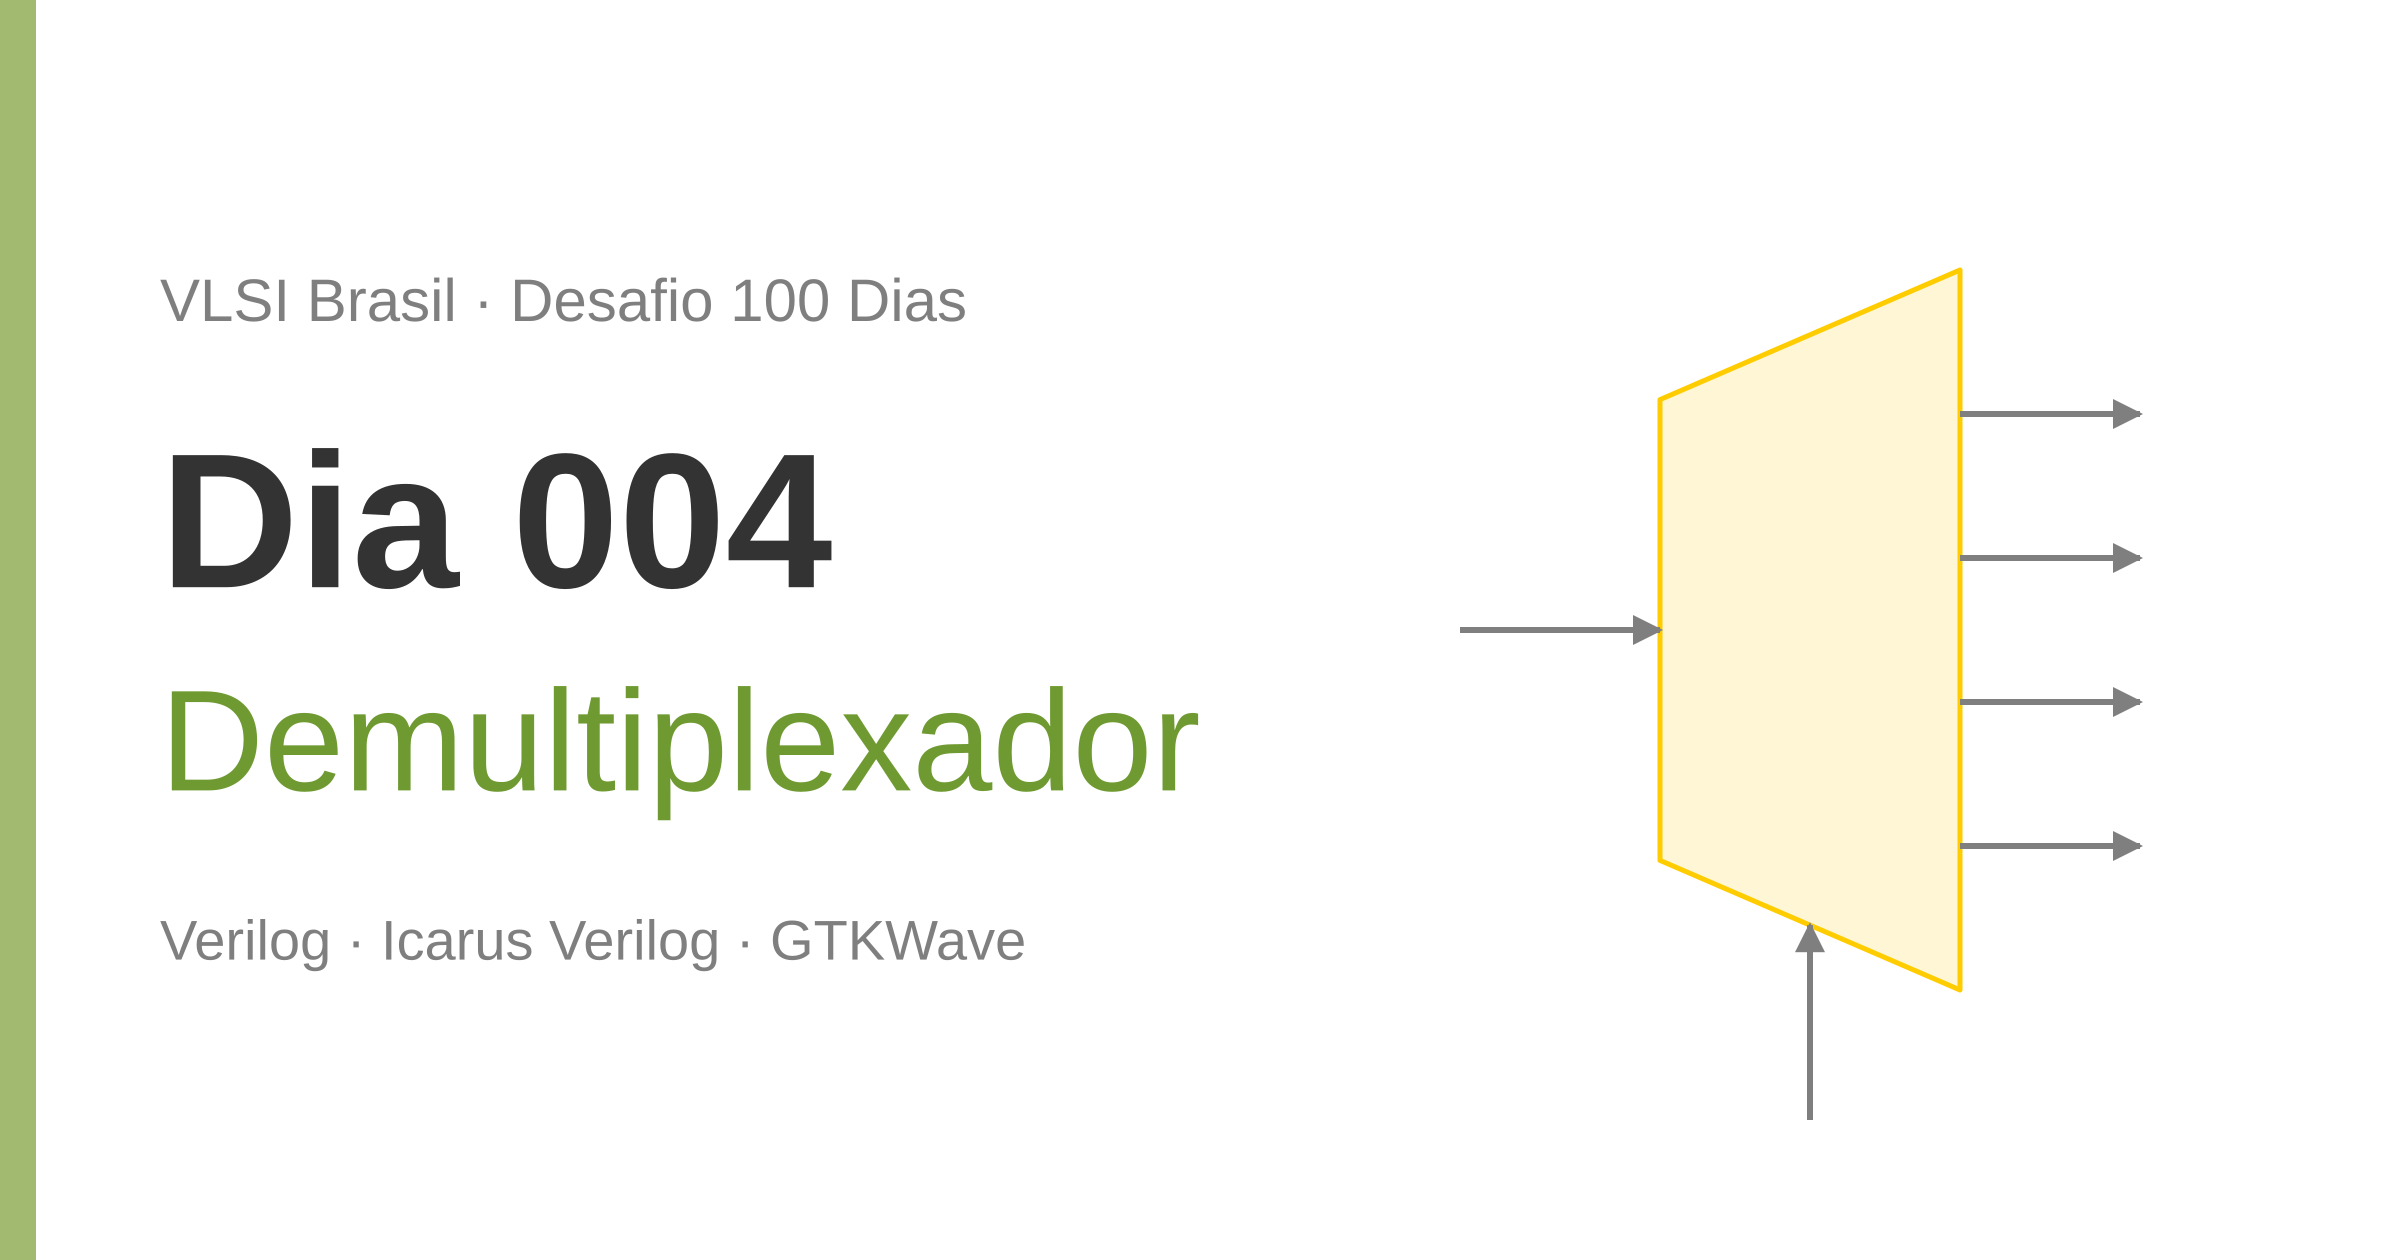
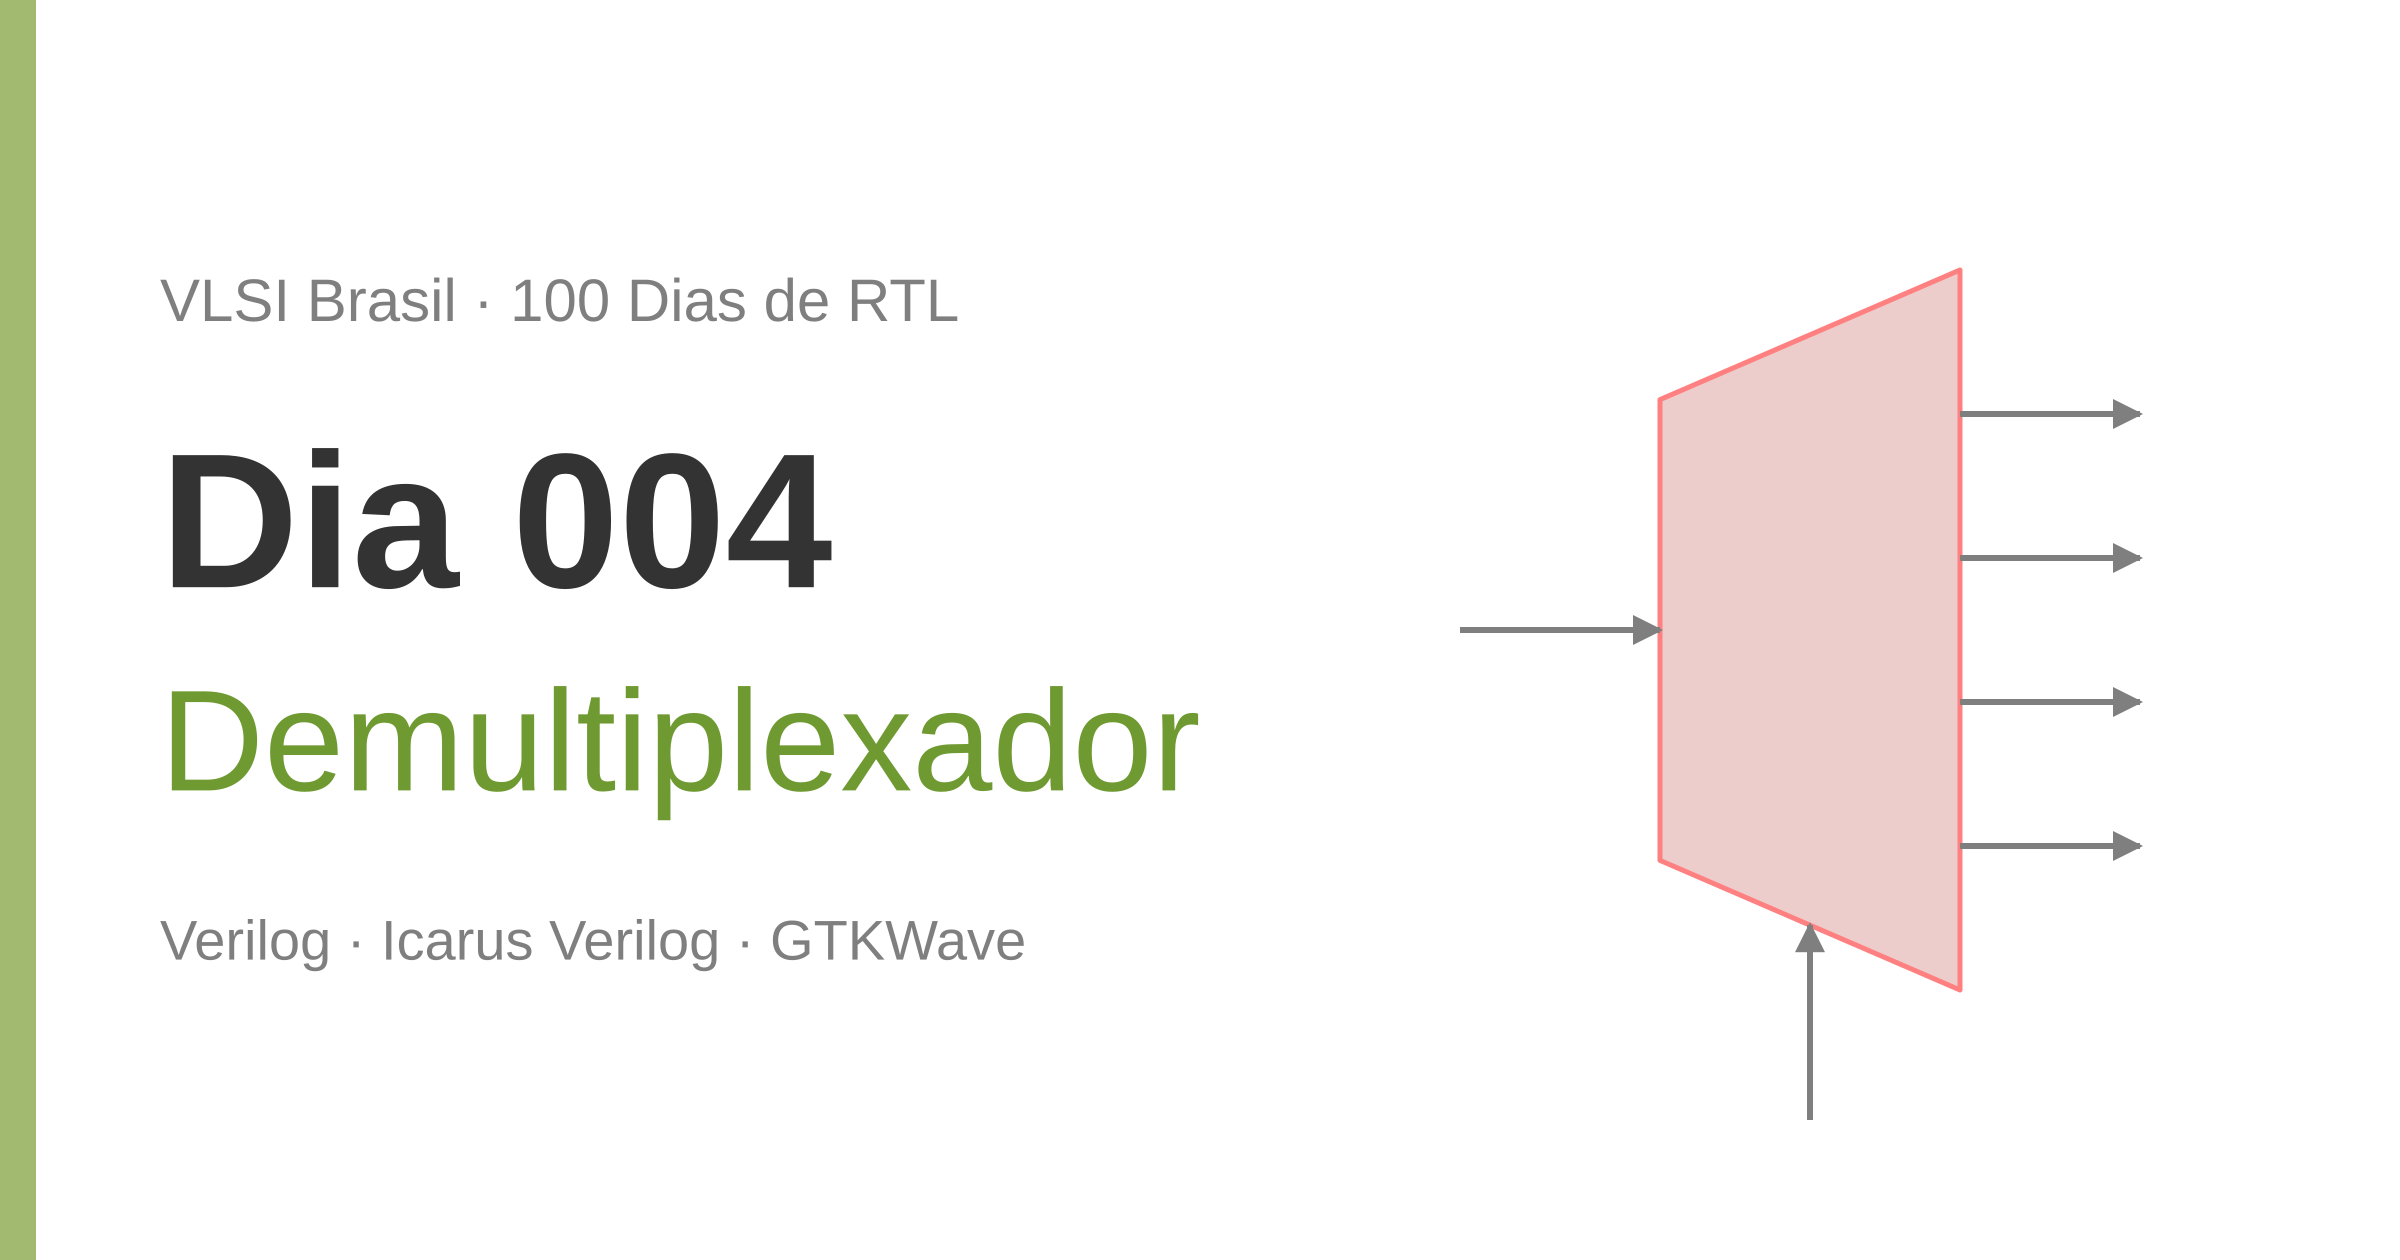
Fixing iamge colors and minor mispells

Changed region(s): [[0.6875, 0.2167, 0.8438, 0.7738], [0.2188, 0.2167, 0.4062, 0.2786]]

diff --git a/src/styles/prose.css b/src/styles/prose.css
@@ -75,6 +75,13 @@
   margin-inline: auto;
 }
 
+/* sem ligaduras no código: em Verilog "!==", "<=" e "->" devem aparecer como digitados */
+.prose code,
+.prose pre {
+  font-variant-ligatures: none;
+  font-feature-settings: 'liga' 0, 'calt' 0;
+}
+
 /* código inline */
 .prose :not(pre) > code {
   font-family: var(--font-mono);

diff --git a/src/content/posts/2026-11-02-dia-006-somador-completo.md b/src/content/posts/2026-11-02-dia-006-somador-completo.md
@@ -1,6 +1,6 @@
 ---
 title: "Dia 006 - Somador Completo"
-description: "Dia 006 do Desafio 100 Dias de RTL: o somador completo (full adder) montado com dois meios somadores, introduzindo projeto hierárquico em Verilog, com testbench e simulação no Icarus Verilog e GTKWave."
+description: "Dia 006 do 100 Dias de RTL: o somador completo (full adder) montado com dois meios somadores, introduzindo projeto hierárquico em Verilog, com testbench e simulação no Icarus Verilog e GTKWave."
 date: 2026-11-02
 author: rafael
 categories: ["100 Dias de RTL", "Verilog"]
@@ -82,7 +82,7 @@ O somador completo é descrito de forma **estrutural**: em vez de escrever as eq
 
 ```verilog
 // ============================================================================
-// VLSI Brasil - Desafio 100 Dias de RTL
+// VLSI Brasil - 100 Dias de RTL
 // Dia 006 - Somador Completo (Full Adder)
 // ----------------------------------------------------------------------------
 // Descrição : Soma três bits (in_a, in_b e o vai-um de entrada cin), gerando
@@ -143,7 +143,7 @@ O arquivo `meio_somador.v` é o mesmo do Dia 005, copiado para a pasta `rtl/` de
 
 ```verilog
 // ============================================================================
-// VLSI Brasil - Desafio 100 Dias de RTL
+// VLSI Brasil - 100 Dias de RTL
 // Dia 006 - Testbench do Somador Completo
 // ============================================================================
 

diff --git a/src/content/posts/2026-11-01-dia-005-meio-somador.md b/src/content/posts/2026-11-01-dia-005-meio-somador.md
@@ -1,6 +1,6 @@
 ---
 title: "Dia 005 - Meio Somador"
-description: "Dia 005 do Desafio 100 Dias de RTL: o meio somador (half adder), da soma binária ao circuito com XOR e AND, com mapas de Karnaugh, código Verilog, testbench e simulação no Icarus Verilog e GTKWave."
+description: "Dia 005 do 100 Dias de RTL: o meio somador (half adder), da soma binária ao circuito com XOR e AND, com mapas de Karnaugh, código Verilog, testbench e simulação no Icarus Verilog e GTKWave."
 date: 2026-11-01
 author: rafael
 categories: ["100 Dias de RTL", "Verilog"]
@@ -72,7 +72,7 @@ O meio somador é simplesmente uma **porta XOR** (para a soma) e uma **porta AND
 
 ```verilog
 // ============================================================================
-// VLSI Brasil - Desafio 100 Dias de RTL
+// VLSI Brasil - 100 Dias de RTL
 // Dia 005 - Meio Somador (Half Adder)
 // ----------------------------------------------------------------------------
 // Descrição : Soma dois bits, gerando o bit de soma (sum) e o bit de
@@ -106,7 +106,7 @@ O código é uma tradução direta das expressões booleanas. Hoje o circuito é
 
 ```verilog
 // ============================================================================
-// VLSI Brasil - Desafio 100 Dias de RTL
+// VLSI Brasil - 100 Dias de RTL
 // Dia 005 - Testbench do Meio Somador
 // ============================================================================
 

diff --git a/src/content/posts/2026-10-30-dia-003-multiplexador.md b/src/content/posts/2026-10-30-dia-003-multiplexador.md
@@ -1,6 +1,6 @@
 ---
 title: "Dia 003 - Multiplexador"
-description: "Dia 003 do Desafio 100 Dias de RTL: o multiplexador 4x1 parametrizável, do mapa de Karnaugh à árvore de muxes, com always @(*), case, testes dirigidos e aleatórios no Icarus Verilog e GTKWave."
+description: "Dia 003 do 100 Dias de RTL: o multiplexador 4x1 parametrizável, do mapa de Karnaugh à árvore de muxes, com always @(*), case, testes dirigidos e aleatórios no Icarus Verilog e GTKWave."
 date: 2026-10-30
 author: rafael
 categories: ["100 Dias de RTL", "Verilog"]
@@ -85,7 +85,7 @@ Desta vez descrevemos o circuito com um bloco `always` combinacional e uma estru
 
 ```verilog
 // ============================================================================
-// VLSI Brasil - Desafio 100 Dias de RTL
+// VLSI Brasil - 100 Dias de RTL
 // Dia 003 - Multiplexador 4x1
 // ----------------------------------------------------------------------------
 // Descrição : Seleciona uma de quatro entradas de WIDTH bits e a envia para
@@ -137,7 +137,7 @@ Com 18 bits de entrada, testar todas as 262.144 combinações ainda seria possí
 
 ```verilog
 // ============================================================================
-// VLSI Brasil - Desafio 100 Dias de RTL
+// VLSI Brasil - 100 Dias de RTL
 // Dia 003 - Testbench do Multiplexador 4x1
 // ============================================================================
 

diff --git a/src/content/posts/2026-10-29-dia-002-portas-logicas.md b/src/content/posts/2026-10-29-dia-002-portas-logicas.md
@@ -1,6 +1,6 @@
 ---
 title: "Dia 002 - Portas Lógicas"
-description: "Dia 002 do Desafio 100 Dias de RTL: as portas AND, OR, NAND, NOR, XOR e XNOR, com tabela verdade, NAND e NOR em CMOS, código Verilog, testbench e simulação no Icarus Verilog e GTKWave."
+description: "Dia 002 do 100 Dias de RTL: as portas AND, OR, NAND, NOR, XOR e XNOR, com tabela verdade, NAND e NOR em CMOS, código Verilog, testbench e simulação no Icarus Verilog e GTKWave."
 date: 2026-10-29
 author: rafael
 categories: ["100 Dias de RTL", "Verilog"]
@@ -87,7 +87,7 @@ Cada porta vira uma atribuição contínua (`assign`) usando os operadores **bit
 
 ```verilog
 // ============================================================================
-// VLSI Brasil - Desafio 100 Dias de RTL
+// VLSI Brasil - 100 Dias de RTL
 // Dia 002 - Portas Lógicas
 // ----------------------------------------------------------------------------
 // Descrição : Implementa as seis portas lógicas básicas de duas entradas:
@@ -135,7 +135,7 @@ O testbench percorre as 4 combinações de entrada e compara as seis saídas de 
 
 ```verilog
 // ============================================================================
-// VLSI Brasil - Desafio 100 Dias de RTL
+// VLSI Brasil - 100 Dias de RTL
 // Dia 002 - Testbench das Portas Lógicas
 // ============================================================================
 
